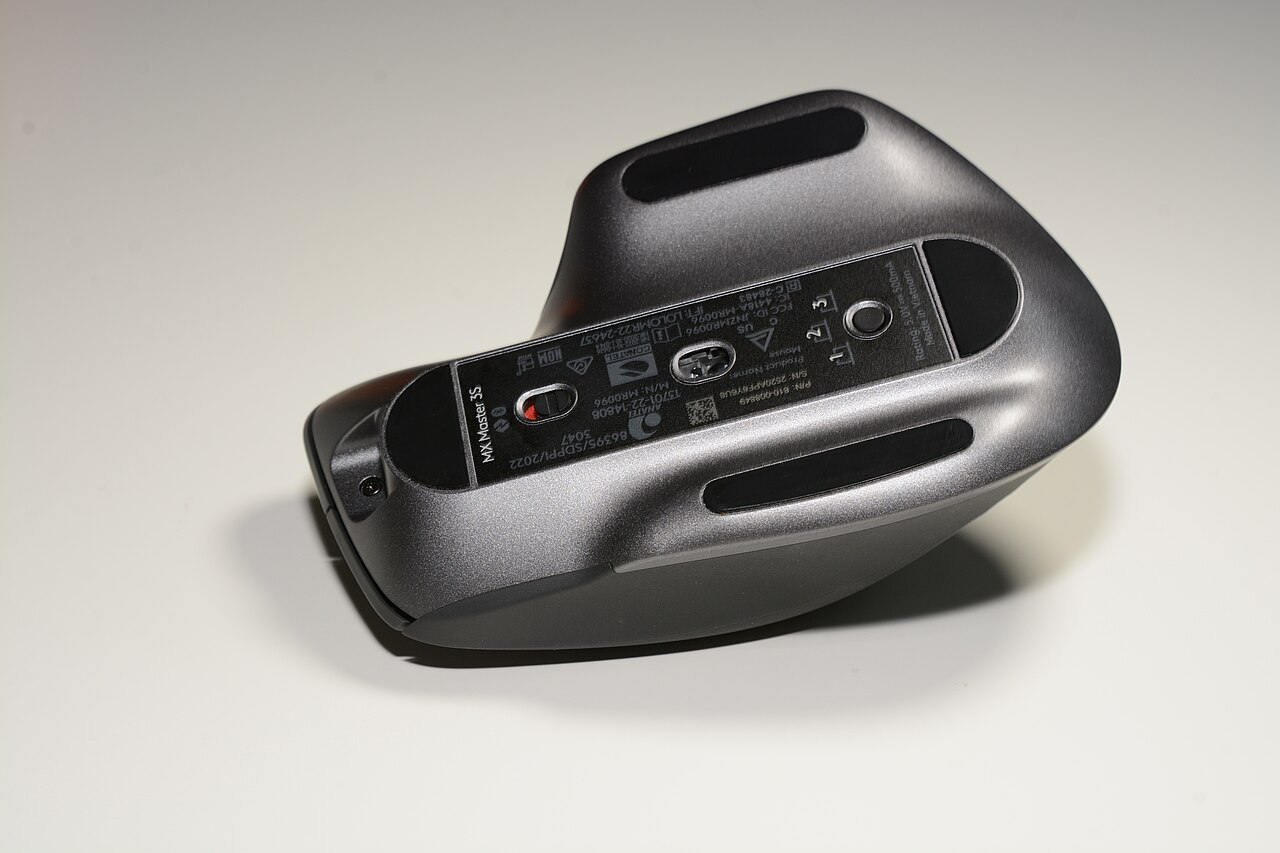
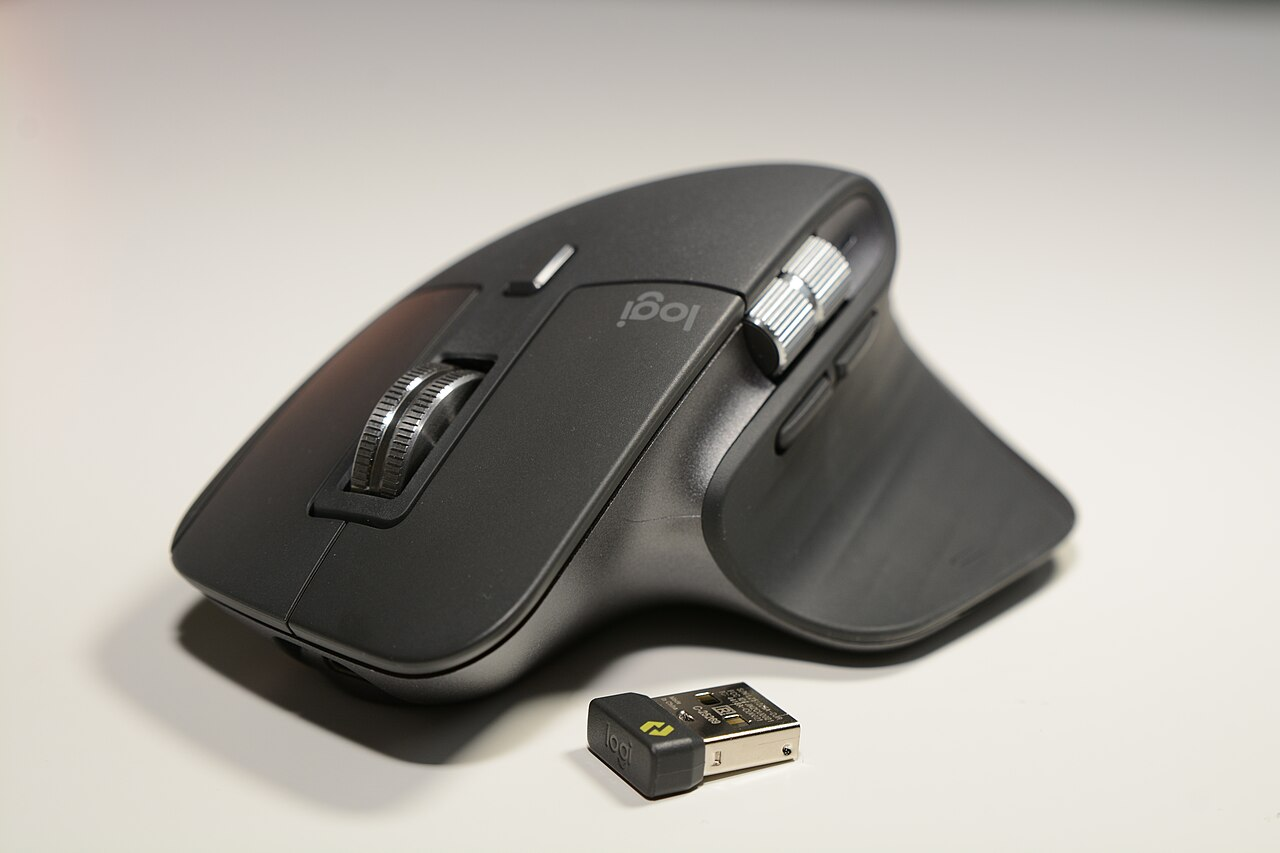
feat(home): melhorar imagens e proveniencia da vitrine
Adiciona cenario editorial panoramico proprio e fotos licenciadas do MX Master 3S com angulos distintos na vitrine e editorial. Atualiza creditos e manifesto, preserva fotos de modelo/variante confirmados e registra limite do K120.

Inclui change refine-home-imagery arquivada, especificacao sincronizada e evidencias. Validacao: 153 testes, compilacao Reflex e OpenSpec strict aprovados. Sem alteracao no Xano ou push.

diff --git a/assets/voltix-home.css b/assets/voltix-home.css
@@ -128,7 +128,7 @@
  .vx-home .vx-hero__copy { max-width: 58ch; margin: 1rem auto 1.4rem; line-height: 1.55; font-size: 1.125rem; }
  .vx-home .vx-button { border-radius: 999px; min-height: 46px; font-weight: 500; padding: .7rem 1.5rem; }
  .vx-home .vx-hero__media { width: min(100%,62rem); margin-inline: auto; }
- .vx-home .vx-hero__photo { aspect-ratio: auto; height: 300px; object-position: center 58%; border: 0; border-radius: 18px; box-shadow: none; }
+ .vx-home .vx-hero__photo { aspect-ratio: 3 / 1; height: auto; object-position: center; object-fit: contain; border: 0; border-radius: 18px; box-shadow: none; }
  .vx-home .vx-hero__caption { font-size: .75rem; margin-top: .6rem; }
  .vx-home .vx-benefits { padding-block: 1.6rem; border-top: 0; }
  .vx-home .vx-section { margin-top: 4rem; }

diff --git a/voltix/voltix.py b/voltix/voltix.py
@@ -6063,7 +6063,7 @@ State.toggle_brand_status,
 def home_page() -> rx.Component:
     """Home editorial; dados e eventos continuam no fluxo público existente."""
     assets_dir = os.path.join(os.path.dirname(os.path.dirname(__file__)), "assets", "demo")
-    hero_available = os.path.isfile(os.path.join(assets_dir, "vtx-editorial-setup.jpg"))
+    hero_available = os.path.isfile(os.path.join(assets_dir, "vtx-home-workspace-v2.webp"))
     try:
         with open(os.path.join(assets_dir, "manifest.json"), encoding="utf-8-sig") as stream:
             manifest = json.load(stream)
@@ -6113,10 +6113,10 @@ def home_page() -> rx.Component:
     def hero_section():
         if hero_available:
             media = rx.box(
-                rx.image(src="/demo/vtx-editorial-setup.jpg",
-                         alt="Composição ilustrativa de uma mesa com monitor, teclado e mouse",
+                rx.image(src="/demo/vtx-home-workspace-v2.webp",
+                         alt="Cenário ilustrativo panorâmico de uma mesa com monitor, teclado e mouse",
                          class_name="vx-hero__photo", loading="eager"),
-                rx.text("Imagem gerada por IA fornecida pelo projeto.",
+                rx.text("Cenário ilustrativo gerado por IA; os equipamentos não representam produtos específicos.",
                         class_name="vx-hero__caption"),
                 class_name="vx-hero__media",
             )
@@ -6243,19 +6243,23 @@ def home_page() -> rx.Component:
         )
 
     def editorial_section():
-        editorial = next(((url, credit) for _name, url, credit in approved_images
-                          if url == "/demo/vtx-demo-004.jpg"), None)
-        if editorial is None:
+        credit = next((entry for entry in manifest.get("editorial_images", [])
+                       if entry.get("role") == "home_editorial"
+                       and entry.get("status") == "approved"
+                       and entry.get("file") == "vtx-editorial-mx-master-3s.jpg"), None)
+        if (not credit or not all(credit.get(key) for key in
+                ("attribution", "source_url", "license_url"))
+                or not os.path.isfile(os.path.join(assets_dir, credit["file"]))):
             return rx.fragment()
-        url, credit = editorial
+        url = "/demo/" + credit["file"]
         return rx.el.section(
-            rx.box(rx.image(src=url, alt="Vista inferior do mouse Logitech MX Master 3S",
+            rx.box(rx.image(src=url, alt="Vista lateral do mouse Logitech MX Master 3S, com roda e botões",
                             loading="lazy", class_name="vx-editorial__image"),
                    photo_credit(credit), class_name="vx-editorial__media"),
             rx.box(
                 rx.text("LOGITECH MX MASTER 3S", class_name="vx-editorial__label"),
                 rx.heading("Precisão em cada detalhe", as_="h2", class_name="vx-editorial__heading"),
-                rx.text("Uma visão de perto do MX Master 3S: sensor, controles e acabamento "
+                rx.text("Uma visão de perto do MX Master 3S: roda lateral, botões e acabamento "
                         "em um equipamento pensado para compor o seu espaço de trabalho.",
                         class_name="vx-editorial__copy"),
                 rx.link("Ver catálogo", rx.icon("arrow-right", size=18),

diff --git a/tests/test_home_editorial_assets.py b/tests/test_home_editorial_assets.py
@@ -1,0 +1,35 @@
+import os
+import unittest
+from unittest.mock import patch
+
+import voltix.voltix as app
+
+
+class HomeEditorialAssetsTests(unittest.TestCase):
+    def test_missing_editorial_photo_is_omitted(self):
+        exists = os.path.isfile
+        with patch.object(app.os.path, 'isfile', side_effect=lambda name: False if str(name).endswith('vtx-editorial-mx-master-3s.jpg') else exists(name)):
+            rendered = str(app.home_page())
+        self.assertNotIn('/demo/vtx-editorial-mx-master-3s.jpg', rendered)
+        self.assertIn('/demo/vtx-home-workspace-v2.webp', rendered)
+
+    def test_missing_license_omits_editorial(self):
+        manifest = {'products': [], 'editorial_images': [{
+            'role': 'home_editorial', 'status': 'approved',
+            'file': 'vtx-editorial-mx-master-3s.jpg',
+            'attribution': 'Author', 'source_url': 'https://example.invalid/photo',
+        }]}
+        with patch.object(app.json, 'load', return_value=manifest):
+            rendered = str(app.home_page())
+        self.assertNotIn('/demo/vtx-editorial-mx-master-3s.jpg', rendered)
+
+    def test_missing_hero_uses_local_graphic_fallback(self):
+        exists = os.path.isfile
+        with patch.object(app.os.path, 'isfile', side_effect=lambda name: False if str(name).endswith('vtx-home-workspace-v2.webp') else exists(name)):
+            rendered = str(app.home_page())
+        self.assertNotIn('/demo/vtx-home-workspace-v2.webp', rendered)
+        self.assertIn('vx-hero__graphic', rendered)
+
+
+if __name__ == '__main__':
+    unittest.main()

diff --git a/openspec/changes/archive/2026-10-27-refine-home-imagery/specs/public-home/spec.md b/openspec/changes/archive/2026-10-27-refine-home-imagery/specs/public-home/spec.md
@@ -1,0 +1,53 @@
+## MODIFIED Requirements
+
+### Requirement: Hero promoting the catalog
+
+The public home SHALL present a premium editorial hero on the store's dark navy surface, without an eyebrow or kicker label above the heading, with a single page-level heading, a short supporting sentence, exactly one primary call-to-action labeled "Explorar produtos" leading to the existing public catalog, and a media panel. The hero media SHALL be composed only from an approved local asset from the store's assets — either a licensed photograph or a store-owned generated image — or, when that asset does not suit the composition, a store-owned graphic panel built from the store's visual tokens. The hero SHALL NOT reference external image URLs, SHALL NOT introduce promotions, prices, ratings, or commercial claims that do not exist in the store, and SHALL keep the call-to-action's current route and access behavior.
+
+**Implementation:** The hero SHALL prioritize displaying a store-owned generated editorial image (`vtx-home-workspace-v2.webp`) with its provenance statement ("Cenário ilustrativo gerado por IA; os equipamentos não representam produtos específicos."). The store-owned graphic panel SHALL be used only as fallback when the photograph is unavailable or unsuitable for the composition.
+
+#### Scenario: Visitor interacts with the hero
+- **WHEN** a visitor activates "Explorar produtos" in the hero
+- **THEN** the system navigates to the existing public catalog page
+
+#### Scenario: Home renders on a narrow viewport
+- **WHEN** the home is viewed at mobile width
+- **THEN** the hero stacks heading, supporting sentence, call-to-action and media without horizontal overflow, keeping all of them reachable and readable
+
+#### Scenario: Hero media uses only local approved assets
+- **WHEN** the hero renders its media panel
+- **THEN** the media is an approved local asset (a licensed photograph or a store-owned generated image) or a store-owned graphic panel, and no external image URL is requested
+
+#### Scenario: Local hero asset does not suit the composition
+- **WHEN** the approved local asset cannot be used without cropping or distortion that misrepresents it
+- **THEN** the hero renders the store-owned graphic panel instead of an external or fabricated image
+
+#### Scenario: Hero is rendered without an eyebrow
+- **WHEN** the hero renders its heading
+- **THEN** no eyebrow, kicker or pill label is displayed above the level-one heading
+
+#### Scenario: Hero displays editorial photograph with provenance
+- **WHEN** the hero renders with the local generated editorial image
+- **THEN** the generated editorial scenery is displayed without representing catalog SKUs
+- **AND** a visible provenance statement "Cenário ilustrativo gerado por IA; os equipamentos não representam produtos específicos." is shown without requiring interaction
+- **AND** no fabricated author, license or source is displayed
+
+---
+
+### Requirement: Editorial context section with approved photography
+
+The public home SHALL include one editorial section that presents an approved local photograph from the store's assets, a short heading, a short supporting sentence, and at most one call-to-action leading to an existing public route. The accompanying copy SHALL describe the photograph truthfully and SHALL NOT attribute a product, offer, setup or service to the image that it does not show. The section SHALL display the image credit. If no approved photograph is available, the section SHALL be omitted entirely.
+
+**Implementation:** The editorial section SHALL use `vtx-editorial-mx-master-3s.jpg` (Mouse Logitech MX Master 3S) with the heading "Precisão em cada detalhe", supporting copy describing the premium equipment, and visible credit "Logitech MX Master 3S HS17.jpg by Hayden Schiff, CC BY 4.0, via Wikimedia Commons" without requiring interaction.
+
+#### Scenario: Visitor views the editorial section
+- **WHEN** the public home renders the editorial section
+- **THEN** it shows an approved local photograph (`vtx-editorial-mx-master-3s.jpg`)
+- **AND** its credit (author: Hayden Schiff, license: CC BY 4.0, source: Wikimedia Commons) is visible without interaction
+- **AND** a short heading "Precisão em cada detalhe" describes the content
+- **AND** a supporting sentence describes the premium equipment truthfully
+- **AND** at most one call-to-action leads to `/catalogo`
+
+#### Scenario: No approved editorial photograph is available
+- **WHEN** the store has no approved local photograph for the editorial section
+- **THEN** the home omits the section instead of rendering a placeholder or an unlicensed image

diff --git a/openspec/specs/public-home/spec.md b/openspec/specs/public-home/spec.md
@@ -32,7 +32,7 @@ The system SHALL serve a public homepage at the root route `/`, with a premium n
 
 The public home SHALL present a premium editorial hero on the store's dark navy surface, without an eyebrow or kicker label above the heading, with a single page-level heading, a short supporting sentence, exactly one primary call-to-action labeled "Explorar produtos" leading to the existing public catalog, and a media panel. The hero media SHALL be composed only from an approved local asset from the store's assets — either a licensed photograph or a store-owned generated image — or, when that asset does not suit the composition, a store-owned graphic panel built from the store's visual tokens. The hero SHALL NOT reference external image URLs, SHALL NOT introduce promotions, prices, ratings, or commercial claims that do not exist in the store, and SHALL keep the call-to-action's current route and access behavior.
 
-**Implementation:** The hero SHALL prioritize displaying an approved local photograph (`vtx-editorial-setup.jpg`) with its provenance statement ("Imagem gerada por IA fornecida pelo projeto"). The store-owned graphic panel SHALL be used only as fallback when the photograph is unavailable or unsuitable for the composition.
+**Implementation:** The hero SHALL prioritize displaying a store-owned generated editorial image (`vtx-home-workspace-v2.webp`) with its provenance statement ("Cenário ilustrativo gerado por IA; os equipamentos não representam produtos específicos."). The store-owned graphic panel SHALL be used only as fallback when the photograph is unavailable or unsuitable for the composition.
 
 #### Scenario: Visitor interacts with the hero
 - **WHEN** a visitor activates "Explorar produtos" in the hero
@@ -55,9 +55,9 @@ The public home SHALL present a premium editorial hero on the store's dark navy 
 - **THEN** no eyebrow, kicker or pill label is displayed above the level-one heading
 
 #### Scenario: Hero displays editorial photograph with provenance
-- **WHEN** the hero renders with the approved local photograph
-- **THEN** the photograph is displayed
-- **AND** a visible provenance statement "Imagem gerada por IA fornecida pelo projeto" is shown without requiring interaction
+- **WHEN** the hero renders with the local generated editorial image
+- **THEN** the generated editorial scenery is displayed without representing catalog SKUs
+- **AND** a visible provenance statement "Cenário ilustrativo gerado por IA; os equipamentos não representam produtos específicos." is shown without requiring interaction
 - **AND** no fabricated author, license or source is displayed
 
 ---
@@ -155,11 +155,11 @@ The public home SHALL present a short curated showcase of at most four products 
 
 The public home SHALL include one editorial section that presents an approved local photograph from the store's assets, a short heading, a short supporting sentence, and at most one call-to-action leading to an existing public route. The accompanying copy SHALL describe the photograph truthfully and SHALL NOT attribute a product, offer, setup or service to the image that it does not show. The section SHALL display the image credit. If no approved photograph is available, the section SHALL be omitted entirely.
 
-**Implementation:** The editorial section SHALL use `vtx-demo-004.jpg` (Mouse Logitech MX Master 3S) with the heading "Precisão em cada detalhe", supporting copy describing the premium equipment, and visible credit "Logitech MX Master 3S HS14.jpg by Hayden Schiff, CC BY 4.0, via Wikimedia Commons" without requiring interaction.
+**Implementation:** The editorial section SHALL use `vtx-editorial-mx-master-3s.jpg` (Mouse Logitech MX Master 3S) with the heading "Precisão em cada detalhe", supporting copy describing the premium equipment, and visible credit "Logitech MX Master 3S HS17.jpg by Hayden Schiff, CC BY 4.0, via Wikimedia Commons" without requiring interaction.
 
 #### Scenario: Visitor views the editorial section
 - **WHEN** the public home renders the editorial section
-- **THEN** it shows an approved local photograph (`vtx-demo-004.jpg`)
+- **THEN** it shows an approved local photograph (`vtx-editorial-mx-master-3s.jpg`)
 - **AND** its credit (author: Hayden Schiff, license: CC BY 4.0, source: Wikimedia Commons) is visible without interaction
 - **AND** a short heading "Precisão em cada detalhe" describes the content
 - **AND** a supporting sentence describes the premium equipment truthfully

diff --git a/openspec/changes/archive/2026-10-27-refine-home-imagery/evidence/validation.md b/openspec/changes/archive/2026-10-27-refine-home-imagery/evidence/validation.md
@@ -1,0 +1,11 @@
+# Validação da change de imagens — 27/10/2026
+
+- 153 testes aprovados (150 anteriores + 3 verificações de asset ausente/crédito incompleto/fallback). Compilação Reflex concluída em 11,005 s. OpenSpec strict válido.
+- Navegador em 1440px e 1024px: sem imagens quebradas, sem overflow horizontal; hero preserva proporção panorâmica 3:1 com object-fit contain. Um H1 na Home.
+- Controle em 390px: sem imagens quebradas/overflow; nova variante de header desktop permanece oculta. Nenhum redesenho mobile; apenas assets compartilhados.
+- Fotografia da vitrine: MX Master 3S e receptor, HS05; fotografia editorial distinta: lateral HS17. As duas têm crédito Hayden Schiff, fonte Commons e licença CC BY 4.0 visíveis.
+- Navegação preservada: clicar no mouse abre /catalogo?product_id=25 e o painel de detalhes existente; retorno para Home funciona.
+- Hero WebP gerado tem 2172×724 e 94.658 bytes. Identificado como cenário ilustrativo gerado por IA, sem representar SKUs. Nenhuma fotografia real de produto foi fabricada.
+- Foto K120 original e CPU CC0 mantidas. Alternativa de teclado rejeitada por layout QWERTZ distinto, conforme assets.md. A uniformização completa das fotos depende de uma foto autorizada da variante correta; não é apresentada como concluída.
+- Captura home-desktop.png conferida visualmente na versão atual. Sem login, compra, alteração de registros Xano ou push.
+- O DOM inclui o rótulo Connection Error já observado anteriormente; os dados e a navegação acima renderizaram normalmente. Não constitui teste de estabilidade contínua do backend nem auditoria completa de acessibilidade.

diff --git a/openspec/changes/archive/2026-10-27-refine-home-imagery/proposal.md b/openspec/changes/archive/2026-10-27-refine-home-imagery/proposal.md
@@ -1,0 +1,16 @@
+## Why
+A Home desktop ganhou hierarquia, mas a foto principal tem resolução/recorte inadequados, o mouse aparece pela face inferior e sua foto se repete na seção editorial. O usuário autorizou a etapa de imagens e apresentação após arquivar refine-home-visual.
+
+## What Changes
+- Criar cenário editorial panorâmico próprio, gerado e identificado como ilustração sem representar SKUs.
+- Substituir a foto do MX Master 3S por foto real licenciada do modelo exato e usar outro ângulo real na seção editorial.
+- Conferir alternativa de foto para o K120; só substituir se modelo/variante e licença forem confirmados. Caso contrário, manter a foto aprovada e registrar limite.
+- Padronizar espaço das fotos, melhorar hierarquia da vitrine e crédito legível sem omitir autor, fonte ou licença.
+- Atualizar manifesto de proveniência, especificação, testes e evidências; validar e commitar apenas o escopo.
+
+## Capabilities
+### Modified Capabilities
+- public-home: imagens do hero, produtos e editorial.
+
+## Out of Scope
+Novos produtos ou categorias, alteração de elegibilidade da vitrine, backend/Xano, autenticação, preços na Home, busca e rodapé. Sem redesenho mobile; assets podem ser compartilhados. Não usar imagens geradas por IA como fotos de SKUs. Não copiar assets Apple.

diff --git a/openspec/changes/archive/2026-10-27-refine-home-imagery/evidence/assets.md b/openspec/changes/archive/2026-10-27-refine-home-imagery/evidence/assets.md
@@ -1,0 +1,9 @@
+# Seleção e proveniência — 27/10/2026
+
+- Hero: ilustração panorâmica gerada para Voltix, sem representar SKUs. PNG original preservado; asset WebP 2172×724, aproximadamente 95KB, sem retoque geométrico. Proveniência visível na página e no manifesto.
+- Vitrine MX Master 3S: Hayden Schiff, CC BY 4.0, foto HS05 com receptor, modelo conferido em fonte e arquivo. https://commons.wikimedia.org/wiki/File:Logitech_MX_Master_3S_with_receiver_HS05.jpg
+- Editorial: Hayden Schiff, CC BY 4.0, foto HS17 lateral do mesmo modelo, composição diferente. https://commons.wikimedia.org/wiki/File:Logitech_MX_Master_3S_HS17.jpg
+- Teclado: candidato HOF07036 de PantheraLeo1359531, CC BY 4.0, foi inspecionado e rejeitado por layout QWERTZ alemão. Manter K120 original aprovado; uma foto da variante correta continua necessária. https://commons.wikimedia.org/wiki/File:Computerhardware_und_Peripherie_20240203_HOF07036_RAW-Export.png
+- CPU: fotografia CC0 existente preservada. Não inventar imagens de produtos para preencher a vitrine.
+
+Fotografias de produtos não foram retocadas com IA. Os arquivos de mouse são rendições de 1280px disponibilizadas pelo Commons. Fonte, autoria e licença permanecem visíveis. Não há dados de sessão, compras ou credenciais nas evidências.

diff --git a/openspec/changes/archive/2026-10-27-refine-home-imagery/design.md b/openspec/changes/archive/2026-10-27-refine-home-imagery/design.md
@@ -1,0 +1,9 @@
+## Decisions
+- Referência visual mantém simplicidade e protagonismo dos equipamentos. Cenário do hero é genérico e contém proveniência visível.
+- Fotos reais do MX Master 3S: candidatos de Hayden Schiff, CC BY 4.0, conferidos em páginas Commons e por inspeção dos arquivos. Vitrine e editorial usam ângulos distintos.
+- Não transformar fotos de produtos por geração de imagem. Preservar modelo, geometria, variante e identidade verificável.
+- Metadados da foto principal no manifesto são a fonte de crédito. Foto editorial tem registro próprio. Todo arquivo usado é local e com fonte documentada.
+- Apenas composição desktop pode receber ajustes CSS; estados e links contextuais permanecem.
+
+## Validation
+OpenSpec strict, suíte existente, correspondência do manifesto e créditos, compilação e captura desktop. Registrar limitações do K120 se não houver alternativa adequada. Nenhuma alteração no Xano.

diff --git a/openspec/changes/archive/2026-10-27-refine-home-imagery/tasks.md b/openspec/changes/archive/2026-10-27-refine-home-imagery/tasks.md
@@ -1,0 +1,11 @@
+## 1. Planejamento e assets
+- [x] Registrar escopo autorizado e critérios de identidade/licença.
+- [x] Selecionar fotos reais do mouse e registrar proveniência.
+- [x] Conferir alternativa de teclado e registrar decisão.
+- [x] Gerar e inspecionar cenário ilustrativo panorâmico.
+## 2. Implementação
+- [x] Atualizar assets, manifesto, Home e estilos necessários.
+- [x] Preservar créditos, estados, links contextuais e elegibilidade.
+## 3. Validação
+- [x] Validar especificação, testes, compilação e apresentação no navegador.
+- [x] Registrar evidências e criar commit do escopo.
